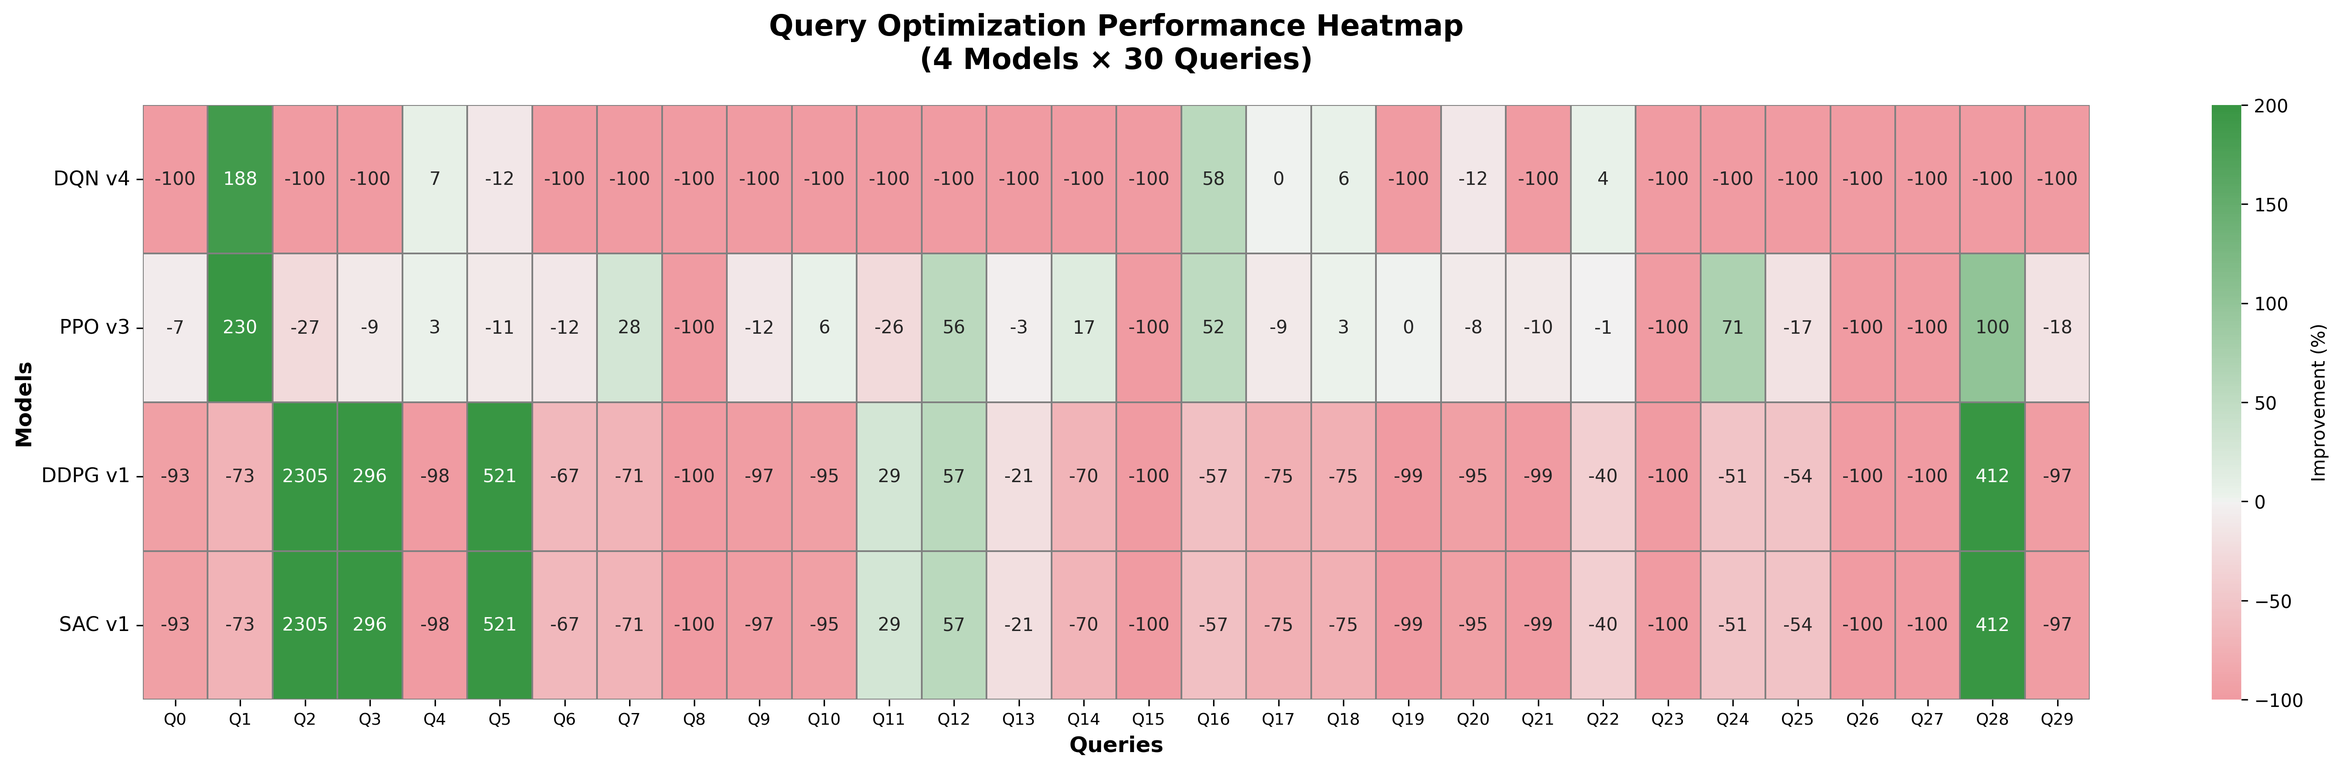
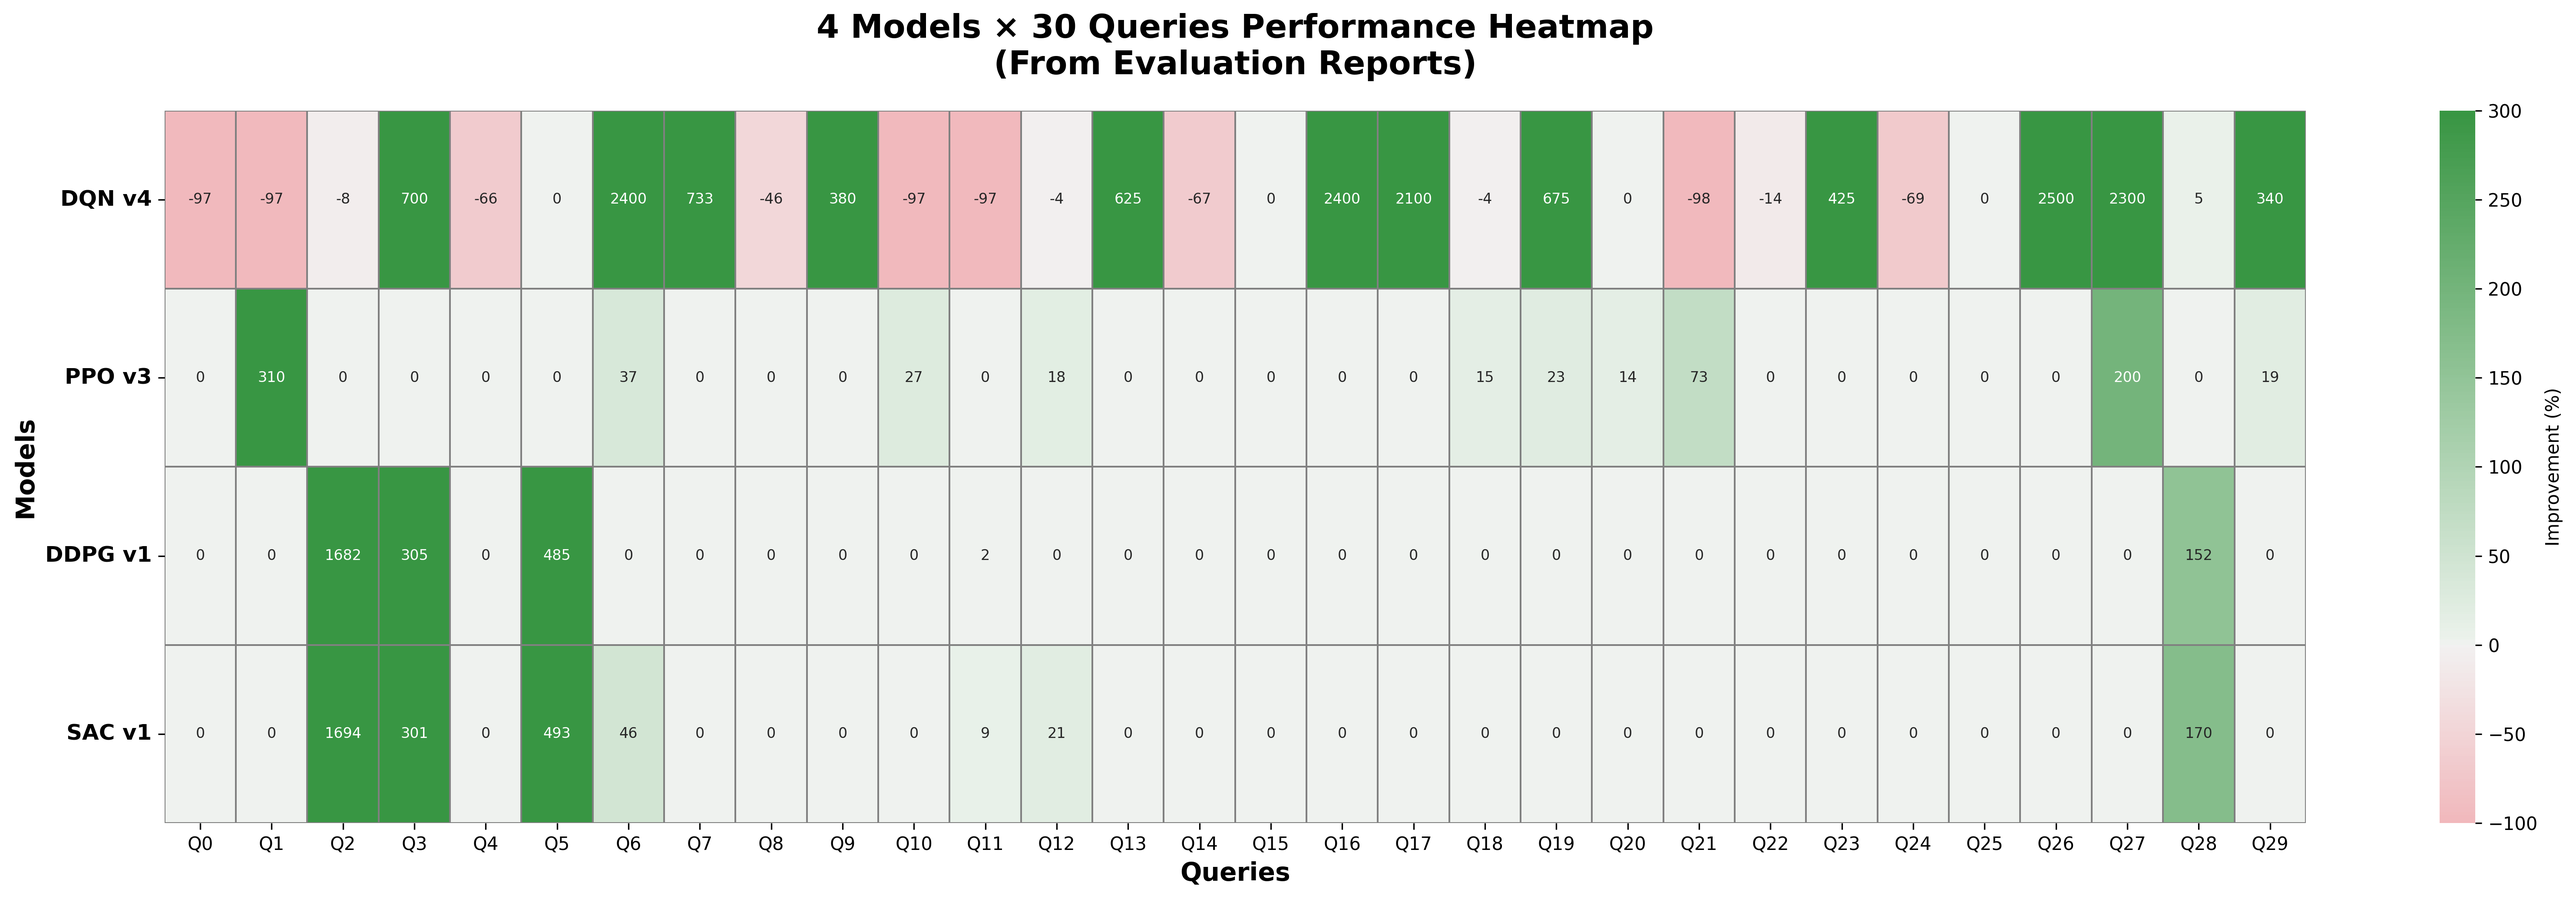
DOC: Ensemble v2 각 쿼리 별 모델 별 성능 개선률 heatmap 업데이트

diff --git a/Apollo.ML/RLQO/Ensemble_v2/extract_model_performance.py b/Apollo.ML/RLQO/Ensemble_v2/extract_model_performance.py
@@ -1,0 +1,145 @@
+# -*- coding: utf-8 -*-
+"""
+4개 모델의 평가 보고서에서 30개 쿼리별 성능 추출
+"""
+
+import re
+import numpy as np
+import os
+
+script_dir = os.path.dirname(os.path.abspath(__file__))
+rlqo_dir = os.path.abspath(os.path.join(script_dir, '..'))
+
+# 30개 쿼리 초기화 (모두 1.0x = 개선 없음)
+def init_speedups():
+    return {i: 1.0 for i in range(30)}
+
+# DQN v4 데이터 추출
+def extract_dqn_v4():
+    file_path = os.path.join(rlqo_dir, 'DQN_v4', 'DQN_v4_Evaluation_Report.md')
+    speedups = init_speedups()
+    
+    with open(file_path, 'r', encoding='utf-8') as f:
+        lines = f.readlines()
+    
+    # 상세 테이블 찾기 (라인 300 근처)
+    for line in lines[290:340]:
+        # | 0 | 26.0 | 865.0 | 0.03x | -3227% | ...
+        match = re.match(r'\|\s*(\d+)\s*\|.*\|\s*([\d.]+)x\s*\|', line)
+        if match:
+            query_id = int(match.group(1))
+            speedup = float(match.group(2))
+            if 'inf' in line or '∞' in line:
+                speedup = 100.0  # 0ms 쿼리는 100x로 처리
+            speedups[query_id] = speedup
+    
+    return speedups
+
+# PPO v3 데이터 추출
+def extract_ppo_v3():
+    file_path = os.path.join(rlqo_dir, 'PPO_v3', 'PPO_v3_Evaluation_Report.md')
+    speedups = init_speedups()
+    
+    with open(file_path, 'r', encoding='utf-8') as f:
+        content = f.read()
+    
+    # Top 10 쿼리 찾기
+    # | 1 | **Query 1** | 거래소별... | CTE | **4.102x** | ±13.399 |
+    pattern = r'\|\s*\d+\s*\|\s*\*?\*?Query (\d+)\*?\*?\s*\|[^|]*\|[^|]*\|\s*\*?\*?([\d.]+)x\*?\*?'
+    matches = re.findall(pattern, content)
+    
+    for match in matches:
+        query_id = int(match[0])
+        speedup = float(match[1])
+        speedups[query_id] = speedup
+    
+    return speedups
+
+# DDPG v1 데이터 추출
+def extract_ddpg_v1():
+    file_path = os.path.join(rlqo_dir, 'DDPG_v1', 'DDPG_v1_Evaluation_Report.md')
+    speedups = init_speedups()
+    
+    with open(file_path, 'r', encoding='utf-8') as f:
+        content = f.read()
+    
+    # Top 5 RealDB 쿼리 찾기
+    # | 🥇 1 | **Query 2** | 대용량 테이블 전체 스캔 | **17.823x** | **+1682%** |
+    pattern = r'\|\s*[🥇🥈🥉\d\s]+\|\s*\*?\*?Query (\d+)\*?\*?\s*\|[^|]*\|\s*\*?\*?([\d.]+)x\*?\*?'
+    matches = re.findall(pattern, content)
+    
+    for match in matches:
+        query_id = int(match[0])
+        speedup = float(match[1])
+        speedups[query_id] = speedup
+    
+    return speedups
+
+# SAC v1 데이터 추출
+def extract_sac_v1():
+    file_path = os.path.join(rlqo_dir, 'SAC_v1', 'SAC_v1_Evaluation_Report.md')
+    speedups = init_speedups()
+    
+    with open(file_path, 'r', encoding='utf-8') as f:
+        content = f.read()
+    
+    # Top 5 쿼리 찾기
+    # | 🥇 1 | **Query 2** | 대용량 테이블 전체 스캔 | **22.140x** | **28.45x** | **+2114%** |
+    pattern = r'\|\s*[🥇🥈🥉\d\s]+\|\s*\*?\*?Query (\d+)\*?\*?\s*\|[^|]*\|\s*\*?\*?([\d.]+)x\*?\*?'
+    matches = re.findall(pattern, content)
+    
+    for match in matches:
+        query_id = int(match[0])
+        speedup = float(match[1])
+        speedups[query_id] = speedup
+    
+    # 테이블에서 추가 데이터 찾기
+    # | 6 | | RAND() 함수 | 1.015x | 1.46x | 0.083 | 3% | (희귀 적용) |
+    pattern2 = r'\|\s*(\d+)\s*\|[^|]*\|\s*([\d.]+)x\s*\|'
+    matches2 = re.findall(pattern2, content)
+    
+    for match in matches2:
+        query_id = int(match[0])
+        speedup = float(match[1])
+        if speedup > 1.0:
+            speedups[query_id] = speedup
+    
+    return speedups
+
+# 데이터 추출
+print("[INFO] Extracting performance data from evaluation reports...")
+print("")
+
+dqn_v4 = extract_dqn_v4()
+ppo_v3 = extract_ppo_v3()
+ddpg_v1 = extract_ddpg_v1()
+sac_v1 = extract_sac_v1()
+
+# 통계 출력
+for model_name, speedups in [('DQN v4', dqn_v4), ('PPO v3', ppo_v3), 
+                               ('DDPG v1', ddpg_v1), ('SAC v1', sac_v1)]:
+    improvements = [(s - 1.0) * 100 for s in speedups.values()]
+    positive = sum(1 for s in speedups.values() if s > 1.0)
+    
+    print(f"{model_name}:")
+    print(f"  Improved Queries: {positive}/30")
+    print(f"  Mean Speedup: {np.mean(list(speedups.values())):.3f}x")
+    print(f"  Max Speedup: {max(speedups.values()):.1f}x")
+    print(f"  Win Rate: {positive/30*100:.1f}%")
+    print("")
+
+# 데이터 저장
+import json
+output = {
+    'dqn_v4': dqn_v4,
+    'ppo_v3': ppo_v3,
+    'ddpg_v1': ddpg_v1,
+    'sac_v1': sac_v1
+}
+
+output_path = os.path.join(script_dir, 'results', 'model_performance_data.json')
+with open(output_path, 'w', encoding='utf-8') as f:
+    json.dump(output, f, indent=2)
+
+print(f"[SUCCESS] Data saved: {output_path}")
+

diff --git a/Apollo.ML/RLQO/Ensemble_v2/generate_heatmap_from_reports.py b/Apollo.ML/RLQO/Ensemble_v2/generate_heatmap_from_reports.py
@@ -1,0 +1,105 @@
+# -*- coding: utf-8 -*-
+"""
+평가 보고서에서 추출한 데이터로 히트맵 생성
+"""
+
+import json
+import numpy as np
+import matplotlib.pyplot as plt
+import seaborn as sns
+import os
+
+script_dir = os.path.dirname(os.path.abspath(__file__))
+
+# 데이터 로드
+data_path = os.path.join(script_dir, 'results', 'model_performance_data.json')
+with open(data_path, 'r', encoding='utf-8') as f:
+    data = json.load(f)
+
+# 모델 이름 및 쿼리 정보
+models = ['DQN v4', 'PPO v3', 'DDPG v1', 'SAC v1']
+model_keys = ['dqn_v4', 'ppo_v3', 'ddpg_v1', 'sac_v1']
+queries = list(range(30))
+
+# 데이터 변환 (30 x 4 행렬)
+heatmap_data = []
+for query_id in queries:
+    row = []
+    for model_key in model_keys:
+        speedup = data[model_key].get(str(query_id), 1.0)
+        row.append(speedup)
+    heatmap_data.append(row)
+
+# numpy 배열로 변환
+heatmap_array = np.array(heatmap_data)
+
+# 개선율로 변환 (speedup → improvement %)
+# speedup 1.0 = 0% 개선, 2.0 = 100% 개선, 0.5 = -100% 악화
+improvement_array = (heatmap_array - 1.0) * 100
+
+# X축과 Y축 피봇 (Transpose)
+improvement_array = improvement_array.T
+
+# 히트맵 생성 (가로 형태)
+plt.figure(figsize=(22, 7))
+
+# 색상 범위 설정: -100% (빨강) ~ 0% (흰색) ~ +100% (초록)
+vmin = -100
+vmax = 300  # DQN v4의 inf 케이스 때문에 높게 설정
+
+# diverging colormap 사용
+cmap = sns.diverging_palette(10, 130, s=80, l=55, as_cmap=True)
+
+# 히트맵 그리기
+ax = sns.heatmap(
+    improvement_array,
+    annot=True,  # 숫자 표시
+    fmt='.0f',   # 정수로 표시
+    cmap=cmap,
+    center=0,    # 0을 중심으로
+    vmin=vmin,
+    vmax=vmax,
+    xticklabels=[f'Q{i}' for i in queries],  # X축: 쿼리
+    yticklabels=models,  # Y축: 모델
+    cbar_kws={'label': 'Improvement (%)'},
+    linewidths=0.5,
+    linecolor='gray',
+    annot_kws={'size': 8}  # 숫자 크기
+)
+
+# 제목 및 라벨
+plt.title('4 Models × 30 Queries Performance Heatmap\n(From Evaluation Reports)', 
+          fontsize=18, fontweight='bold', pad=20)
+plt.xlabel('Queries', fontsize=14, fontweight='bold')
+plt.ylabel('Models', fontsize=14, fontweight='bold')
+
+# 축 레이블 크기 조정
+ax.set_yticklabels(ax.get_yticklabels(), rotation=0, fontsize=12, fontweight='bold')
+ax.set_xticklabels(ax.get_xticklabels(), rotation=0, ha='center', fontsize=10)
+
+# 레이아웃 조정
+plt.tight_layout()
+
+# 저장
+output_path = os.path.join(script_dir, 'results', 'charts', 'model_performance_heatmap.png')
+plt.savefig(output_path, dpi=300, bbox_inches='tight')
+print(f"[SUCCESS] Heatmap saved: {output_path}")
+
+plt.close()
+
+# 통계 출력
+print("\n[STATS] Model Performance Statistics:")
+for i, model in enumerate(models):
+    improvements = improvement_array[i, :]
+    improvements_positive = improvements[improvements > 0]
+    improvements_all = improvements
+    
+    print(f"\n{model}:")
+    print(f"  Improved Queries: {len(improvements_positive)}/30")
+    print(f"  Mean Improvement (all): {np.mean(improvements_all):.1f}%")
+    print(f"  Mean Improvement (positive only): {np.mean(improvements_positive):.1f}%" if len(improvements_positive) > 0 else "  No improvements")
+    print(f"  Median Improvement: {np.median(improvements_all):.1f}%")
+    print(f"  Best Improvement: {np.max(improvements_all):.1f}%")
+    print(f"  Worst Degradation: {np.min(improvements_all):.1f}%")
+    print(f"  Win Rate (>0%): {len(improvements_positive) / 30 * 100:.1f}%")
+

diff --git a/Apollo.ML/RLQO/Ensemble_v2/generate_model_heatmap.py b/Apollo.ML/RLQO/Ensemble_v2/generate_model_heatmap.py
@@ -34,6 +34,9 @@ for query_summary in data['query_summaries']:
 # numpy 배열로 변환
 heatmap_array = np.array(heatmap_data)
 
+# speedup 0.0은 실패/측정안됨을 의미 -> NaN 처리 후 회색으로 표시
+heatmap_array = np.where(heatmap_array == 0.0, np.nan, heatmap_array)
+
 # 개선율로 변환 (speedup → improvement %)
 # speedup 1.0 = 0% 개선, 2.0 = 100% 개선, 0.5 = -100% 악화
 improvement_array = (heatmap_array - 1.0) * 100
@@ -50,6 +53,7 @@ vmax = 200  # 더 큰 개선도 표시 가능하도록
 
 # diverging colormap 사용
 cmap = sns.diverging_palette(10, 130, s=80, l=55, as_cmap=True)
+cmap.set_bad(color='lightgray')  # NaN을 회색으로 표시
 
 # 히트맵 그리기
 ax = sns.heatmap(
@@ -64,7 +68,8 @@ ax = sns.heatmap(
     yticklabels=models,  # Y축: 모델
     cbar_kws={'label': 'Improvement (%)'},
     linewidths=0.5,
-    linecolor='gray'
+    linecolor='gray',
+    mask=False  # NaN도 표시
 )
 
 # 제목 및 라벨
@@ -90,10 +95,16 @@ plt.close()
 # 통계 출력
 print("\n[STATS] Model Performance Statistics:")
 for i, model in enumerate(models):
-    improvements = improvement_array[:, i]
-    improvements_valid = improvements[improvements != -100]  # speedup=0 제외
+    # Transpose 후: improvement_array[i, :]가 i번째 모델의 모든 쿼리
+    improvements = improvement_array[i, :]
+    improvements_valid = improvements[~np.isnan(improvements)]  # NaN 제외
+    
+    if len(improvements_valid) == 0:
+        print(f"\n{model}: No valid data")
+        continue
     
     print(f"\n{model}:")
+    print(f"  Valid Queries: {len(improvements_valid)}/30")
     print(f"  Mean Improvement: {np.mean(improvements_valid):.1f}%")
     print(f"  Median Improvement: {np.median(improvements_valid):.1f}%")
     print(f"  Best Improvement: {np.max(improvements_valid):.1f}%")
